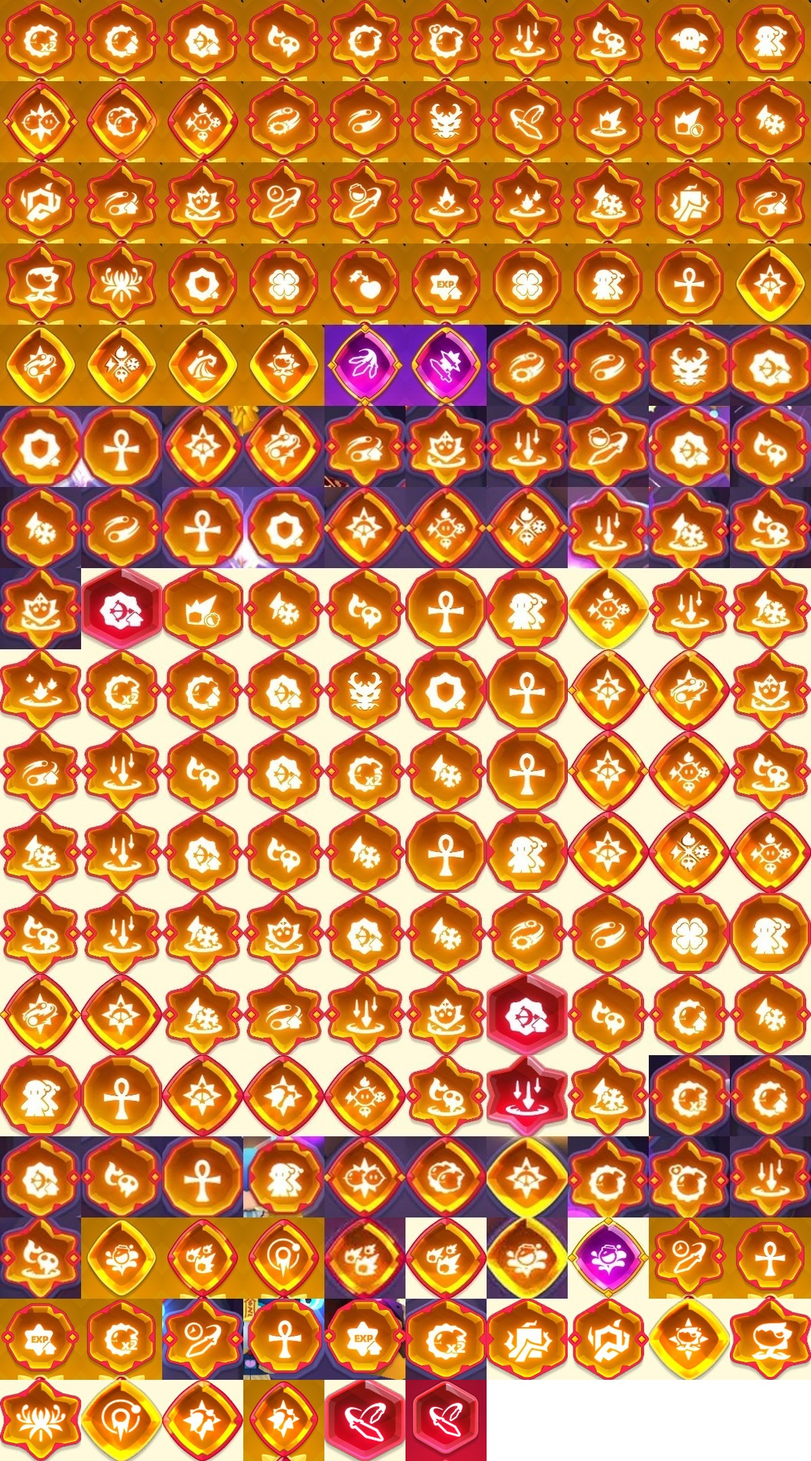
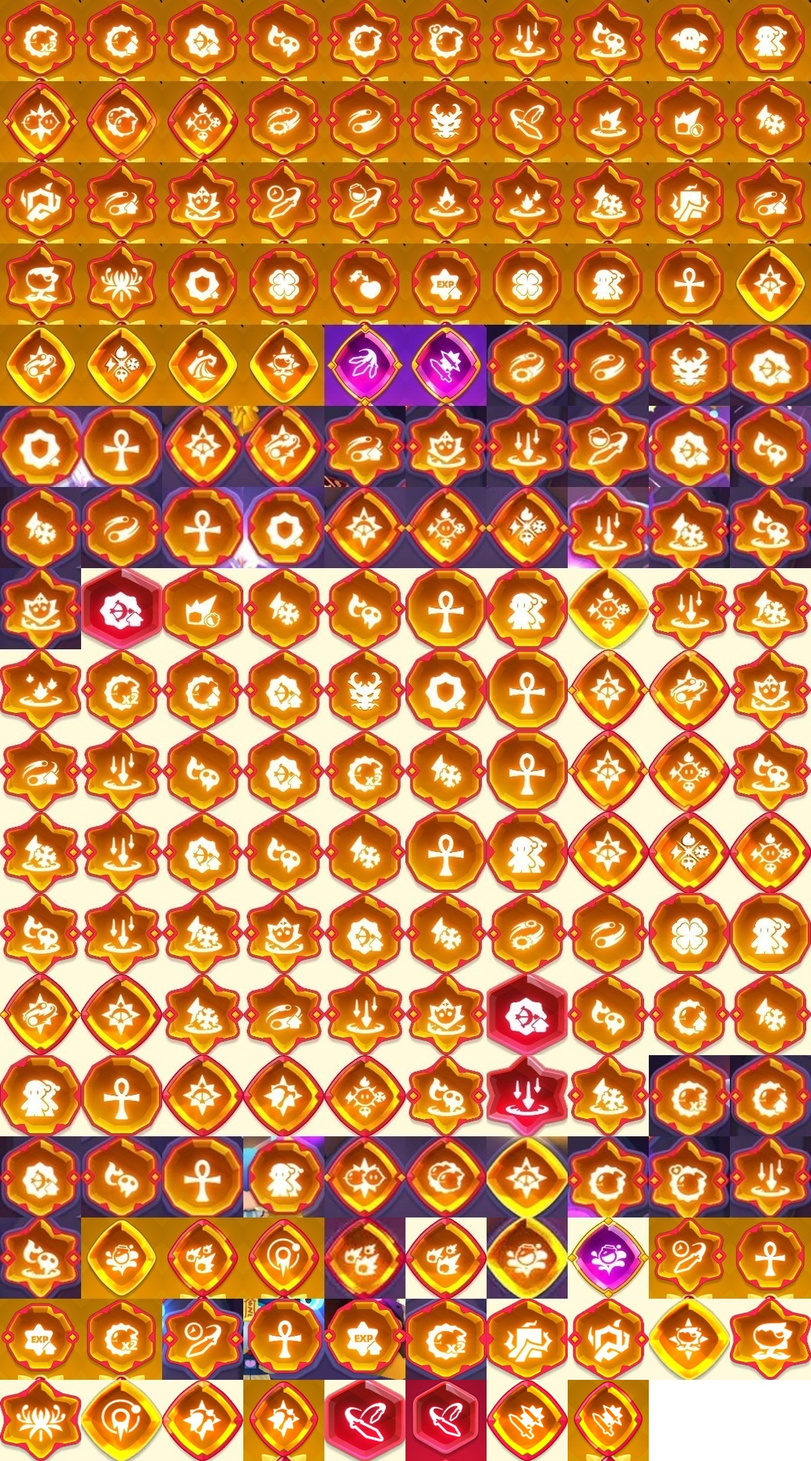
Rune refs: Swordstrike Aerie (popup + small) from Daby's Nov 26 screenshots
Claude-Session: https://claude.ai/code/session_01XwLxWVqZwz362d3f52mYtT

Changed region(s): [[0.5858, 0.9306, 0.8017, 1.0]]

diff --git a/tools/runes/README.md b/tools/runes/README.md
@@ -9,7 +9,7 @@ actually appear, on Mythic red frames, and behind some glow. Cells marked `small
 were added Nov 24 (popups plus 4 small icons). Nov 26: Echo Scythe added (popup + 1 small) and one small cell that was
 cut as Pulsing Orb relabelled to Echo Scythe (it was an Echo Scythe); small cells added for Vine Bind, Rootguard,
 Plant Crit, Plant Summon, Equinox Bloom and Orbital Orb from Daby's preset screenshots. Ricochet Strike in its Mythic look
-(solid red body: popup + 1 small) added the same day.
+(solid red body: popup + 1 small) and Swordstrike Aerie (popup + 1 small) added the same day.
 
 Scripts (Python prototypes, paths point at the original frame folders):
 - `find_icon.py`: finds the icon tile in a popup screenshot.
